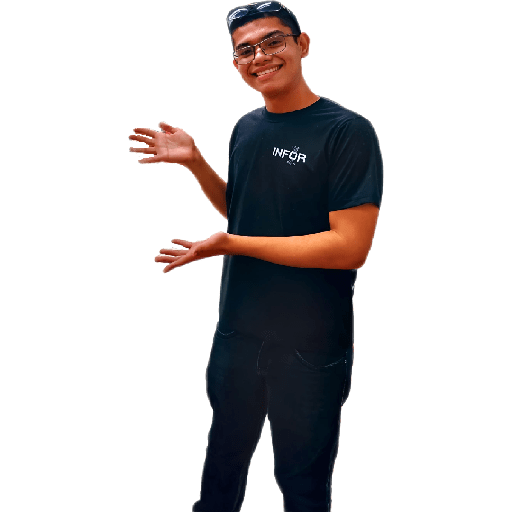
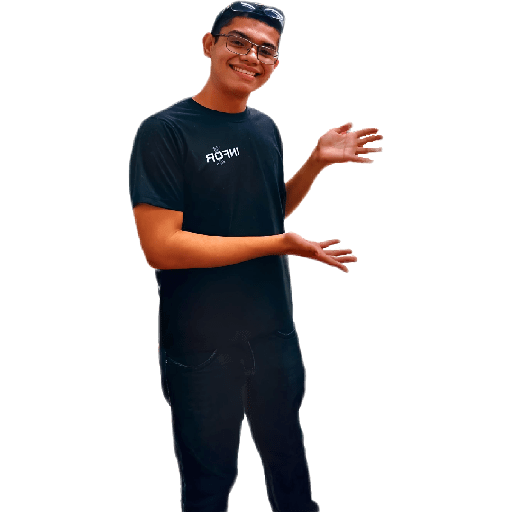
a

Changed region(s): [[0.25, 0.0, 0.75, 1.0], [0.4375, 0.8125, 0.5625, 1.0]]

diff --git a/asset/style.css b/asset/style.css
@@ -7,8 +7,8 @@
 :root {
   /* ----- scroll bar colors ----- */
   --scroll-bar-color: #88949b;
-  --scroll-thumb-color: #7890FB;
-  --scroll-thumb-hover-color: #7890FB;
+  --scroll-thumb-color: #7890fb;
+  --scroll-thumb-hover-color: #7890fb;
 }
 
 /*.dark-mood{
@@ -56,7 +56,7 @@ html {
 }
 
 a {
-  color: #7890FB;
+  color: #7890fb;
 }
 /* ------------ Navigation ------------ */
 
@@ -81,7 +81,7 @@ a {
 .line {
   width: 3rem;
   height: 0.2rem;
-  background-color: #7890FB;
+  background-color: #7890fb;
   transition: transform 0.5s;
 }
 .change .line-1 {
@@ -140,7 +140,7 @@ a {
   transition: color 0.5s;
 }
 .nav-items a:hover {
-  color: #7890FB;
+  color: #7890fb;
 }
 
 /* ------------ Section:Landing ------------ */
@@ -150,7 +150,6 @@ a {
   height: 100vh;
   position: relative;
   z-index: 3;
-  
 }
 
 .section-bg-heading {
@@ -174,7 +173,7 @@ a {
   color: #fff;
 }
 .logo span:nth-child(2) {
-  color: #7890FB;
+  color: #7890fb;
   font-family: "Caveat", cursive;
   font-weight: bold;
   font-size: 5rem;
@@ -225,7 +224,7 @@ a {
   letter-spacing: 0.1rem;
 }
 .greeting span {
-  color: #7890FB;
+  color: #7890fb;
 }
 .name {
   font-size: 8rem;
@@ -235,7 +234,7 @@ a {
   text-shadow: 0 0.5rem 1rem rgba(0, 0, 0, 0.3);
 }
 .name span {
-  color: #7890FB;
+  color: #7890fb;
 }
 
 .change-text {
@@ -256,7 +255,7 @@ a {
   position: absolute;
   display: flex;
   opacity: 0;
-  color: #7890FB;
+  color: #7890fb;
 }
 
 .change-text h3 .word .letter {
@@ -308,13 +307,13 @@ a {
   transition: transform 0.3s;
 }
 .social-media i:hover {
-  color: #7890FB;
+  color: #7890fb;
   transform: scale(1.5);
 }
 .btn {
   width: 20rem;
   height: 6rem;
-  border: 0.2rem solid #7890FB;
+  border: 0.2rem solid #7890fb;
   border-radius: 3rem;
   background-color: transparent;
   font-size: 1.4rem;
@@ -328,7 +327,7 @@ a {
   content: "";
   width: 100%;
   height: 100%;
-  background-color: #7890FB;
+  background-color: #7890fb;
   border-radius: 3rem;
   position: absolute;
   top: 0;
@@ -368,7 +367,7 @@ a {
   height: 55rem;
   width: 55rem;
   border-radius: 50%;
-  border: 1px solid #7890FB;
+  border: 1px solid #7890fb;
   position: relative;
   animation: circleAnim linear infinite 20s;
 }
@@ -419,7 +418,7 @@ a {
 .dev-img-wrapper {
   width: 45rem;
   height: 45rem;
-  background-color: #7890FB;
+  background-color: #7890fb;
   border-radius: 50%;
   padding: 2rem 2rem 0 2rem;
   box-shadow: 0 1rem 1rem rgba(0, 0, 0, 0.3);
@@ -459,7 +458,7 @@ a {
   text-align: center;
 }
 .dev-works span:nth-child(2) {
-  color: #7890FB;
+  color: #7890fb;
   width: 50%;
 }
 
@@ -473,7 +472,6 @@ a {
   align-items: center;
   position: relative;
   background: linear-gradient(#232932, #2c3138, #232932);
- 
 }
 .section-heading {
   font-size: 6rem;
@@ -485,7 +483,7 @@ a {
 }
 .sub-heading {
   font-size: 2rem;
-  color: #7890FB;
+  color: #7890fb;
   text-transform: uppercase;
 }
 .sub-heading span {
@@ -519,10 +517,8 @@ a {
   height: 50rem;
 }
 .about-right h3 {
-  
   font-weight: bold;
   color: #fff;
-  
 }
 .about-right p {
   font-family: "Caveat", cursive;
@@ -542,10 +538,8 @@ a {
 
 .about-right .btn:hover {
   color: #fff;
-  background-color: #7890FB;
+  background-color: #7890fb;
 }
-
-
 
 /* ------------ Section: Skills ------------ */
 
@@ -568,7 +562,7 @@ a {
 }
 .sub-heading {
   font-size: 2rem;
-  color: #7890FB;
+  color: #7890fb;
   text-transform: uppercase;
 }
 .sub-heading span {
@@ -608,7 +602,7 @@ a {
   color: #ccc;
 }
 .skill span:nth-child(2) {
-  color: #7890FB;
+  color: #7890fb;
 }
 .skills-card p {
   font-family: "Caveat", cursive;
@@ -628,7 +622,7 @@ a {
 .skills-card-progress::before {
   content: "";
   height: 0.2rem;
-  background-color: #7890FB;
+  background-color: #7890fb;
   position: absolute;
   top: 50%;
   transform: translateY(-50%);
@@ -727,7 +721,6 @@ a {
   margin-top: 10rem;
   padding-bottom: 10rem;
   z-index: 100;
-  
 }
 .project-card {
   width: 40rem;
@@ -740,7 +733,6 @@ a {
   flex-direction: column;
   justify-content: space-between;
 }
-
 
 .project-img {
   width: 36rem;
@@ -766,7 +758,7 @@ a {
   font-size: 1.4rem;
   font-weight: 300;
   text-transform: uppercase;
-  color: #7890FB;
+  color: #7890fb;
   letter-spacing: 0.1rem;
 }
 .project-name {
@@ -791,7 +783,7 @@ a {
   cursor: pointer;
 }
 .project-btn i {
-  color: #7890FB;
+  color: #7890fb;
   margin-left: 1rem;
   transition: margin-left 0.3s;
 }
@@ -819,7 +811,6 @@ a {
   flex-direction: column;
   align-items: center;
   background: linear-gradient(#232932, #2c3138, #232932);
-  
 }
 .contact .section-border {
   position: absolute;
@@ -867,7 +858,7 @@ model-viewer {
   transition: transform 0.3s;
 }
 .contact-left i:hover {
-  background-color: #7890FB;
+  background-color: #7890fb;
   transform: scale(1.3);
 }
 .contact-left i::after {
@@ -926,7 +917,7 @@ model-viewer {
 }
 .input-group label i {
   font-size: 1.2rem;
-  color: #7890FB;
+  color: #7890fb;
 }
 .input-group input,
 textarea {
@@ -951,7 +942,7 @@ textarea {
 .contact-btn {
   width: calc(100% - 3rem);
   height: 5rem;
-  background-color: #7890FB;
+  background-color: #7890fb;
   border: 0.2rem solid #bbb;
   border-radius: 3rem;
   color: #fff;
@@ -988,18 +979,15 @@ textarea {
   font-family: "Caveat", cursive;
   font-size: 2.5rem;
   font-weight: bold;
-  color: #7890FB;
+  color: #7890fb;
   margin-right: 1rem;
 }
 .author span {
   font-family: "Caveat", cursive;
   font-size: 2.5rem;
   font-weight: bold;
-  color: #7890FB;
+  color: #7890fb;
 }
-
-
-
 
 @media (max-width: 1600px) {
   html {
@@ -1075,7 +1063,7 @@ textarea {
   .projects.section-border {
     right: 10rem;
   }
-  
+
   .contact-content {
     width: 100rem;
     justify-content: space-evenly;
@@ -1145,7 +1133,8 @@ textarea {
   .developer-img {
     display: none;
   }
-  .dev-experience, .dev-projects,
+  .dev-experience,
+  .dev-projects,
   .dev-work {
     display: none;
   }

diff --git a/index.html b/index.html
@@ -75,13 +75,13 @@
           </div>
           <div class="header-right">
             <div class="circle">
-              <a href="https://www.linkedin.com/in/jo%C3%A3o-pedro-jp-a34752287?utm_source=share&utm_campaign=share_via&utm_content=profile&utm_medium=android_app"><i class="fa-brands fa-linkedin-in"></i></a>
+              <a href="https://www.linkedin.com/in/jo%C3%A3o-pedro-jp-a34752287?utm_source=sare&utm_campaign=share_via&utm_content=profile&utm_medium=android_app"><i class="fa-brands fa-linkedin-in"></i></a>
               <a href="https://github.com/Joao-Pedro-F"><i class="fa-brands fa-github"></i></a>
               <a href="#"><i class="fa-brands fa-instagram"></i></i></a>
             </div>
             <div class="developer-img">
               <div class="dev-img-wrapper">
-                <img src= "./asset/images/IMG_20240430_201611_029.jpg" alt="foto do autor" width="250px" />
+                <img src= "./asset/images/jpf.png" alt="foto do autor" />
               </div>
             </div>
           </div>
@@ -105,6 +105,7 @@
           <div class="about-left">
             <div class="about-image">
               <img src="./asset/images/628463068.png" alt="Photo de l'auteur" />
+              
             </div>
           </div>
           <div class="about-right">
